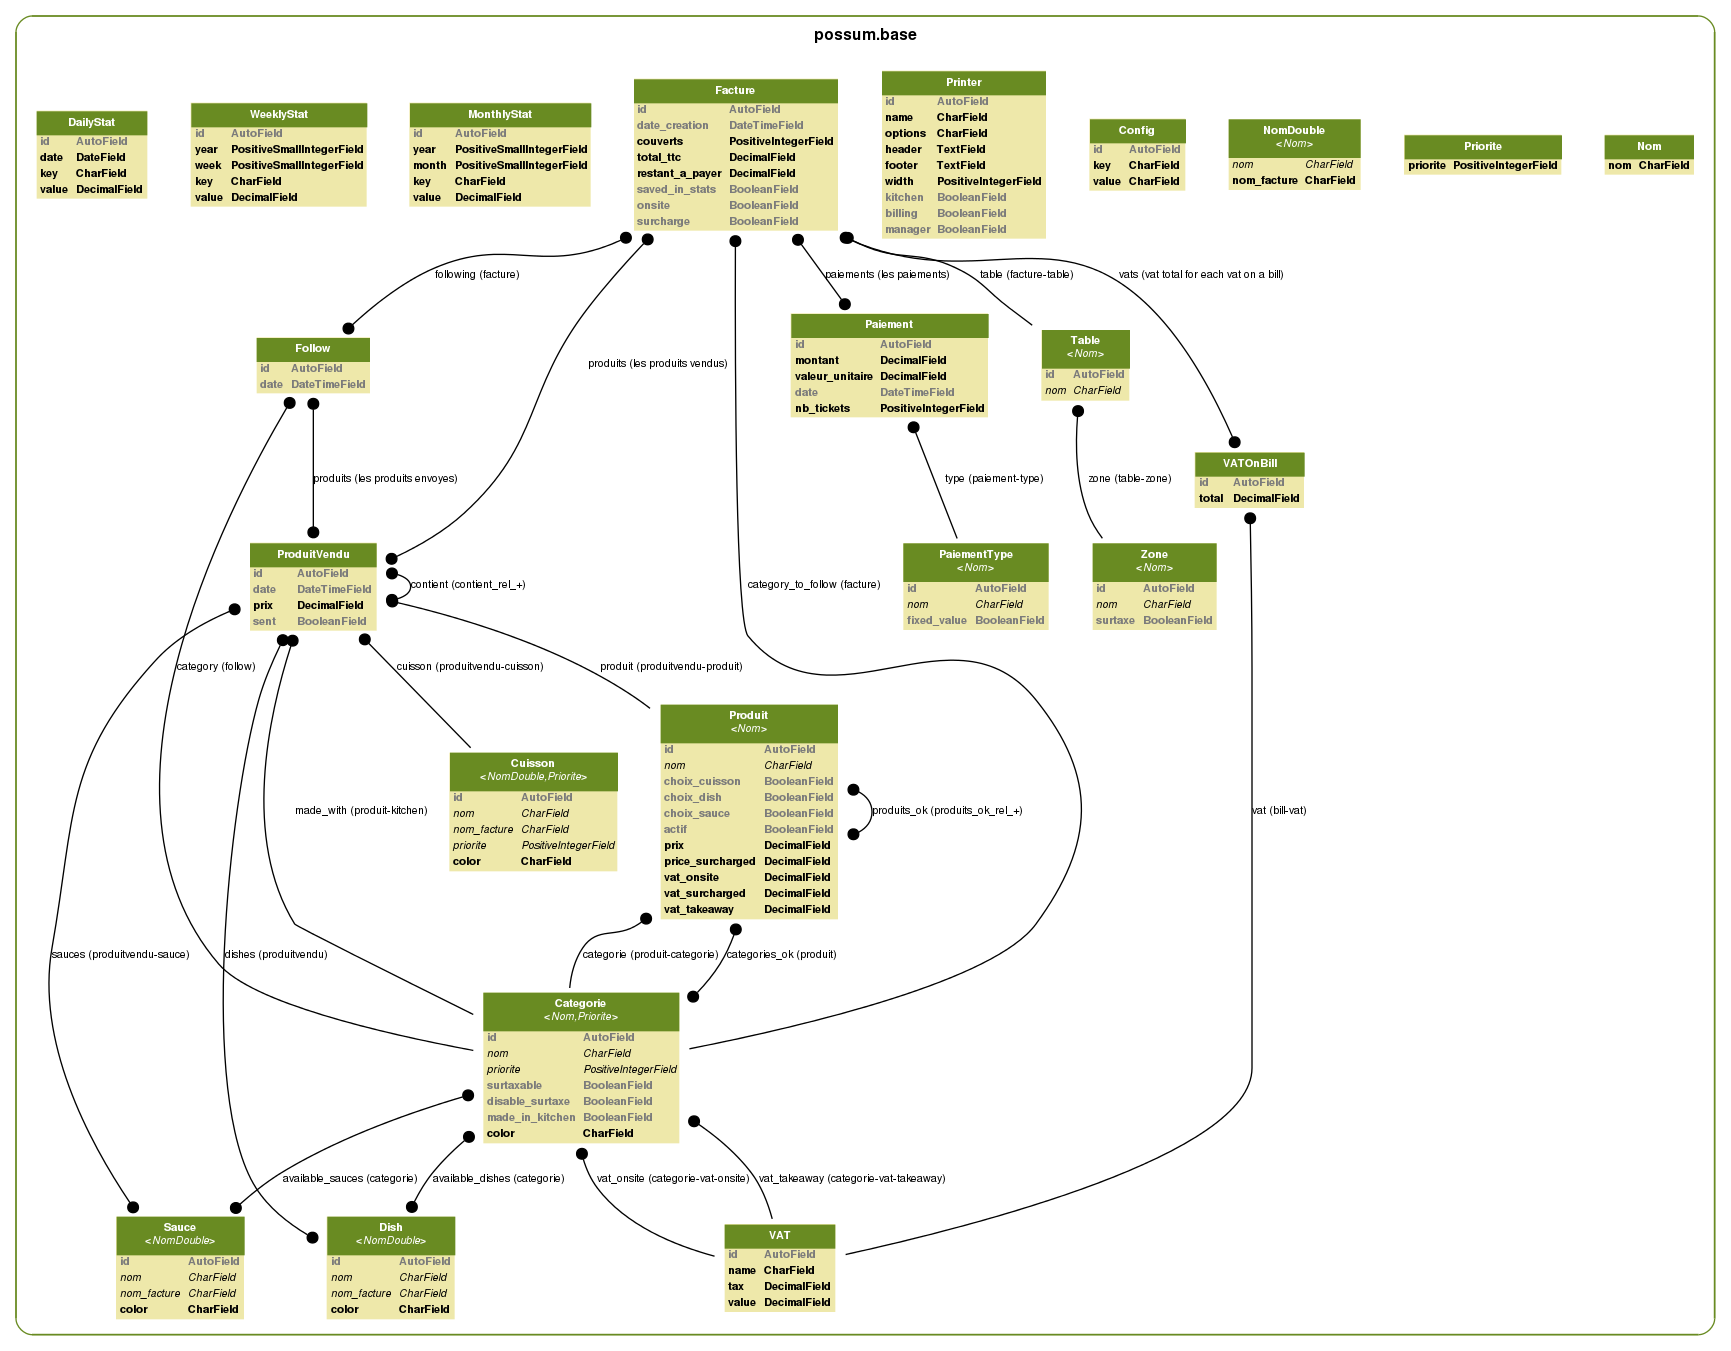
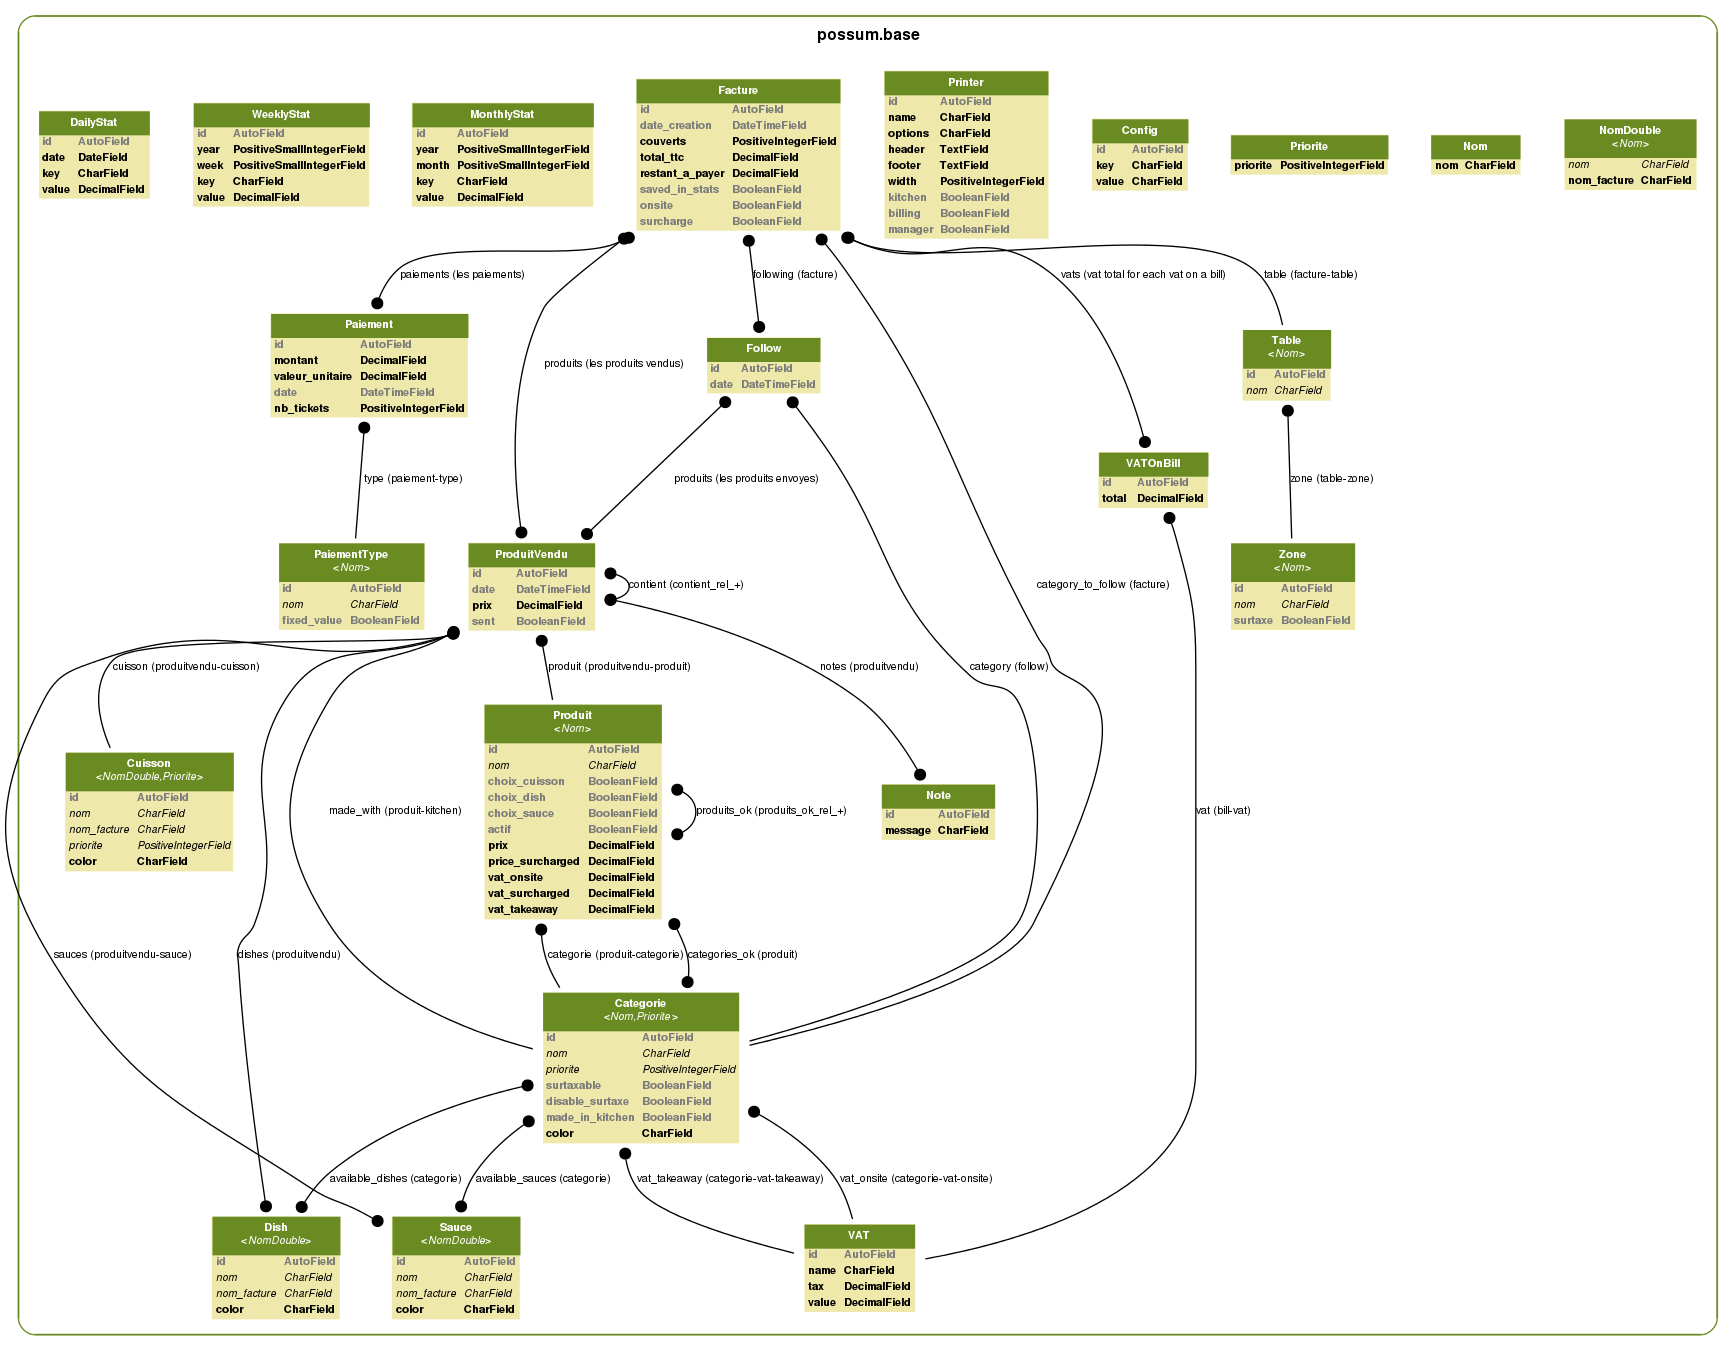
note added for ProduitVendu

diff --git a/possum/templates/base/carte/category.html b/possum/templates/base/carte/category.html
@@ -78,6 +78,30 @@
     {% endfor %}
 </ul>
 
+<h2>Accompagnements utilisables</h2>
+<ul id="dishes">
+    <li onclick="window.location='/dishes/new/'">Ajouter</li>
+    {% for dish in dishes %}
+        <li 
+            onclick="window.location='/category/{{category.id}}/dishes/dish.id/'" 
+            {% if dish in category.available_dishes.all %}
+            class="enabled"{% endif %}>{{dish.nom}} ({{dish.nom_facture}})
+        </li>
+    {% endfor %}
+</ul>
+
+<h2>Sauces utilisables</h2>
+<ul id="sauces">
+    <li onclick="window.location='/sauces/new/'">Ajouter</li>
+    {% for sauce in sauces %}
+        <li 
+            onclick="window.location='/category/{{category.id}}/sauces/sauce.id/'" 
+            {% if sauce in category.available_sauces.all %}
+            class="enabled"{% endif %}>{{sauce.nom}} ({{sauce.nom_facture}})
+        </li>
+    {% endfor %}
+</ul>
+
 <h2>Anciens produits</h2>
 <ul id="products">
     {% for product in products_disable %}

diff --git a/possum/base/models/note.py b/possum/base/models/note.py
@@ -1,0 +1,33 @@
+# -*- coding: utf-8 -*-
+#
+#    Copyright 2009-2014 Sébastien Bonnegent
+#
+#    This file is part of POSSUM.
+#
+#    POSSUM is free software: you can redistribute it and/or modify
+#    it under the terms of the GNU General Public License as published
+#    the Free Software Foundation, either version 3 of the License, or
+#    (at your option) any later version.
+#
+#    POSSUM is distributed in the hope that it will be useful,
+#    but WITHOUT ANY WARRANTY; without even the implied warranty of
+#    MERCHANTABILITY or FITNESS FOR A PARTICULAR PURPOSE.  See the
+#    GNU General Public License for more details.
+#
+#    You should have received a copy of the GNU General Public License
+#    along with POSSUM.  If not, see <http://www.gnu.org/licenses/>.
+
+
+from django.db import models
+
+
+class Note(models.Model):
+    """Note on a ProduitVendu"""
+    message = models.CharField(max_length=35, default="")
+
+    class Meta:
+        app_label = 'base'
+
+    def __cmp__(self, other):
+        return cmp(self.message, other.message)
+

diff --git a/possum/base/models/product_sold.py b/possum/base/models/product_sold.py
@@ -26,6 +26,7 @@ from generic import NomDouble
 from product import Produit
 from options import Cuisson, Sauce, Dish
 from config import Config
+from note import Note
 
 
 logger = logging.getLogger(__name__)
@@ -44,6 +45,7 @@ class ProduitVendu(models.Model):
     dishes = models.ManyToManyField(Dish, null=True, blank=True)
     # dans le cas d'un menu, peut contenir d'autres produits
     contient = models.ManyToManyField('self')
+    notes = models.ManyToManyField(Note, null=True, blank=True)
     # faut-il préparer ce plat avec les entrées ?
     made_with = models.ForeignKey(Categorie, related_name="produit-kitchen",
                                   null=True)

diff --git a/possum/base/models/__init__.py b/possum/base/models/__init__.py
@@ -17,6 +17,7 @@
 #    You should have received a copy of the GNU General Public License
 #    along with POSSUM.  If not, see <http://www.gnu.org/licenses/>.
 
+from note import Note
 from bill import Facture
 from category import Categorie
 from config import Config
